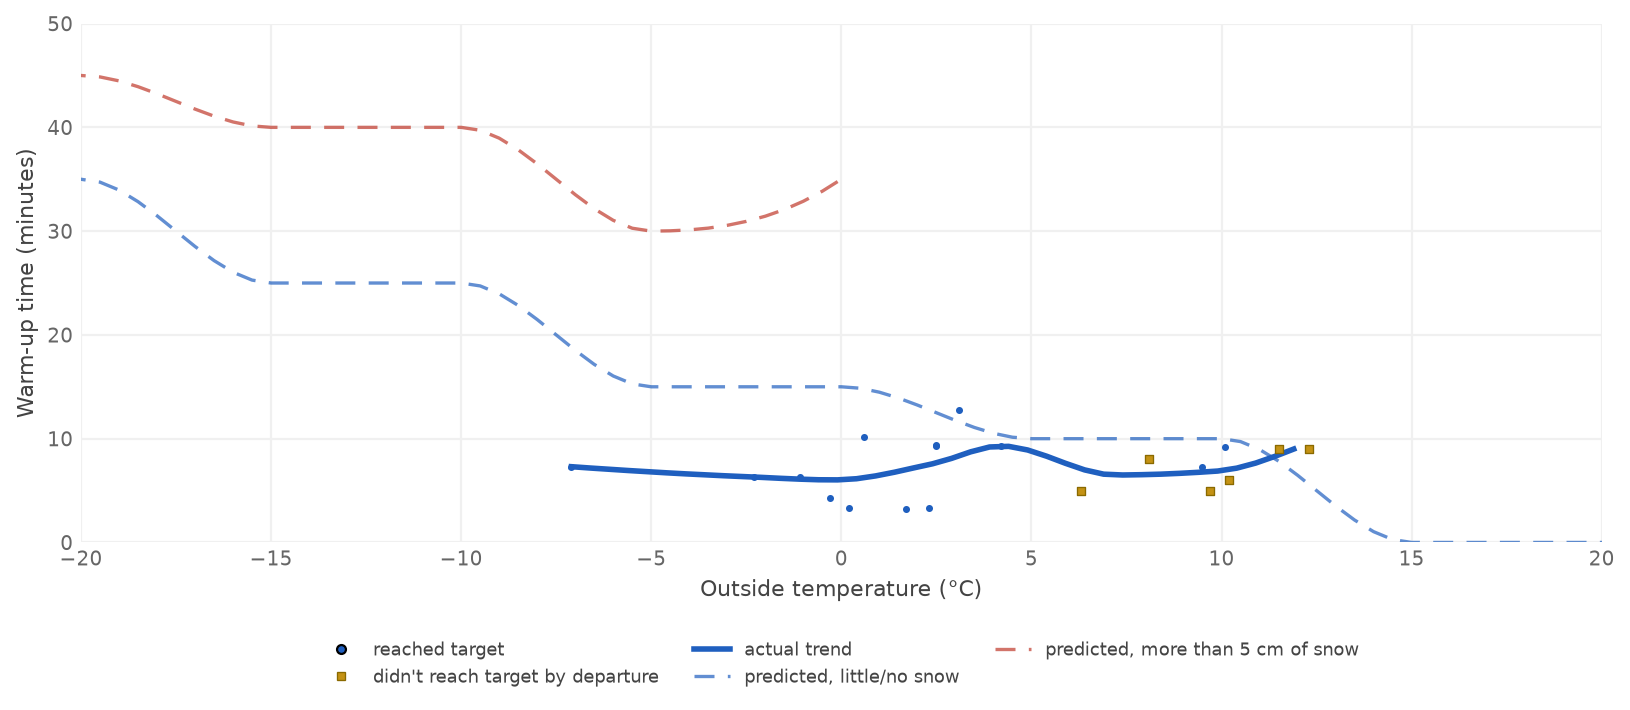
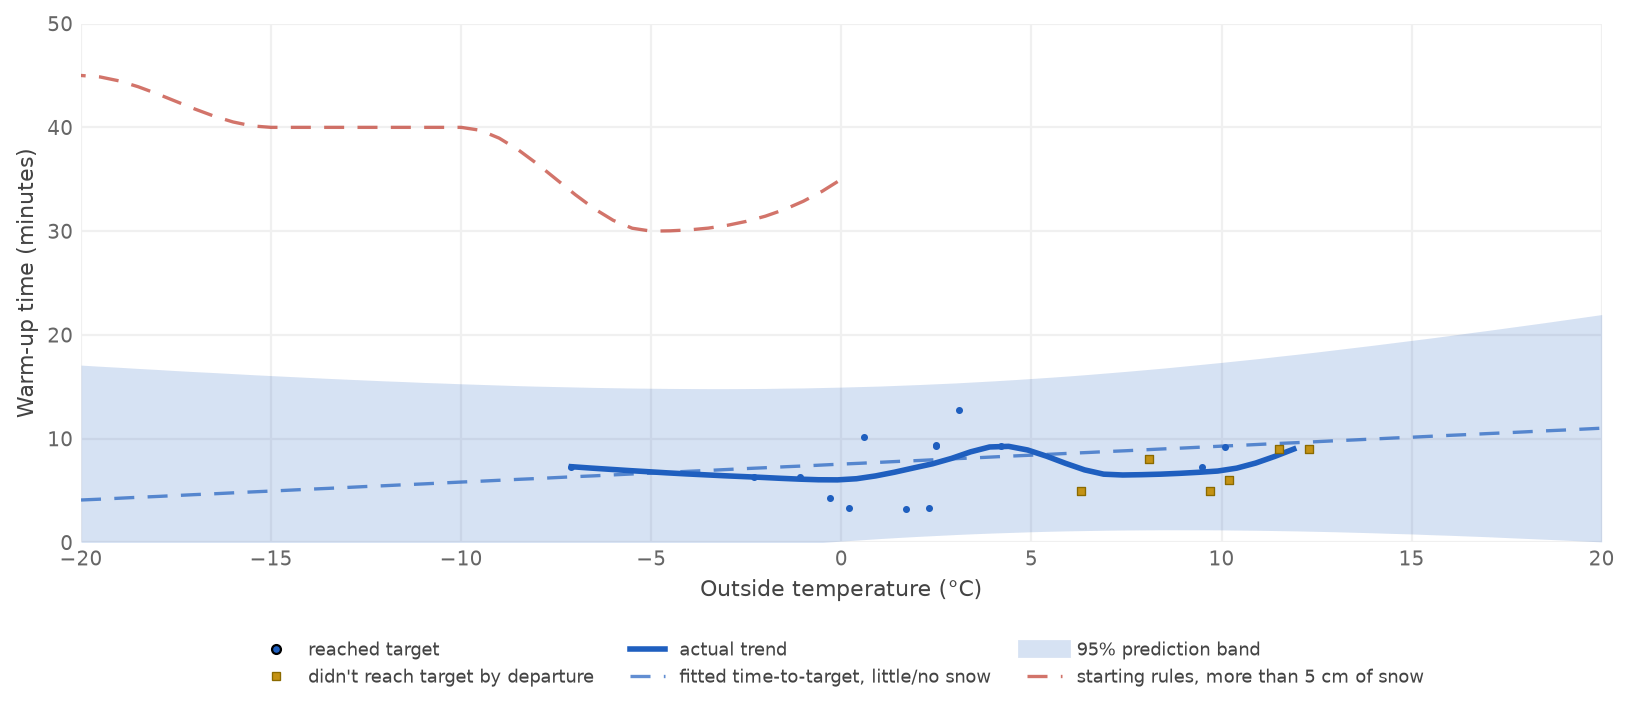
Update warm-up site 2026-11-25 11:43 EST

diff --git a/index.html b/index.html
@@ -5,18 +5,18 @@
 <meta http-equiv="Cache-Control" content="no-cache, no-store, must-revalidate">
 <meta http-equiv="Pragma" content="no-cache">
 <meta http-equiv="Expires" content="0">
-<meta name="evie-build" content="dc84d692acac">
+<meta name="evie-build" content="cb5a9c070e6d">
 <meta name="viewport" content="width=device-width, initial-scale=1, viewport-fit=cover">
 <title>Evie warm-up calibration</title>
 <meta name="description" content="How long Evie needs to warm up or cool down at each outside temperature, and how each trip calibrates it.">
 <meta name="robots" content="noindex">
 <meta name="theme-color" content="#0f1115">
 <meta property="og:title" content="Evie warm-up calibration">
-<meta property="og:image" content="assets/chart.png?v=dc84d692acac">
-<link rel="icon" href="assets/favicon.svg?v=dc84d692acac" type="image/svg+xml">
-<link rel="apple-touch-icon" href="assets/favicon.svg?v=dc84d692acac">
-<link rel="stylesheet" href="assets/style.css?v=dc84d692acac">
-<script src="assets/theme-boot.js?v=dc84d692acac"></script>
+<meta property="og:image" content="assets/chart.png?v=cb5a9c070e6d">
+<link rel="icon" href="assets/favicon.svg?v=cb5a9c070e6d" type="image/svg+xml">
+<link rel="apple-touch-icon" href="assets/favicon.svg?v=cb5a9c070e6d">
+<link rel="stylesheet" href="assets/style.css?v=cb5a9c070e6d">
+<script src="assets/theme-boot.js?v=cb5a9c070e6d"></script>
 </head>
 <body>
 <main>
@@ -41,7 +41,7 @@
   <div class="chart-wrap">
     <div class="chart-scroll" id="chart-scroll">
       <div id="chart" class="chart" role="img" aria-label="Chart of warm-up time in minutes against outside temperature from -20 to 20 °C. Scroll sideways for the full width. Tap a point for details.">
-        <noscript><img src="assets/chart.png?v=dc84d692acac" alt="Warm-up time vs outside temperature" width="2080" height="896"></noscript>
+        <noscript><img src="assets/chart.png?v=cb5a9c070e6d" alt="Warm-up time vs outside temperature" width="2080" height="896"></noscript>
       </div>
     </div>
   </div>
@@ -49,11 +49,12 @@
     <span><span class="d">●</span> reached target</span>
     <span><span class="m">■</span> didn't reach target by departure</span>
     <span class="d">— actual trend</span>
-    <span class="d">- - predicted, little/no snow</span>
-    <span class="s">- - predicted, more than 5 cm of snow (no trips yet)</span>
+    <span class="d">- - fitted time-to-target, little/no snow</span>
+    <span class="d">shaded 95% prediction band</span>
+    <span class="s">- - starting rules, more than 5 cm of snow (no trips yet)</span>
   </div>
-  <p class="note">20 completed warm-ups so far, all with 5 cm of snow or less.</p>
-  <p class="fine">Predicted curve: car parked outside at home, plugged in, no frost. Snow line assumes 10 cm of fresh snow (defrost added). Frosty mornings add about 10 minutes to the dry line. Chart shows −20 to +20 °C. The chart is 30% wider than the page and scrolls sideways. Tap a point or line for details.</p>
+  <p class="note">20 completed warm-ups so far, all with 5 cm of snow or less. The dashed blue line is a refit of cabin time-to-target vs outside temperature from 9 sessions with a trustworthy reached-target time (ordinary least squares, y = 7.5 + 0.17×T minutes, R² = 0.10, RMSE = 2.93 min, the slope is not statistically significant, p = 0.42). The shaded band is a 95% prediction interval. Sessions used for the fit span -7.1 to 10.1 °C; outside that range the line is an extrapolation. Defrost sessions with a cabin-sensor spike or a climate-off overshoot cut were left out of the fit (they still appear as points). This fitted line is for the chart only; the scheduler on the mini still uses its rule table, frost/snow adders, and its own learning. There are no completed sessions with more than 5 cm of snow, so that dashed red line is still the starting rule table (10 cm of fresh snow).</p>
+  <p class="fine">The dashed blue line is a linear fit of observed cabin time-to-target vs outside temperature (not the scheduler’s planned lead, which also adds frost/snow time). The shaded band is a 95% prediction interval. The dashed red snow line is still the starting rule table (10 cm of fresh snow) until a snowy session is recorded. Chart shows −20 to +20 °C. The chart is 30% wider than the page and scrolls sideways. Tap a point or line for details.</p>
 </section>
 
 <section class="card">
@@ -62,16 +63,16 @@
   <div class="tablewrap"><table class="sess"><thead><tr><th>Departure</th><th>Place</th><th>Outside</th><th>Snow</th><th>Mode</th><th>Lead time</th><th>Started</th><th>Time to target</th><th>Status</th><th>Feedback</th></tr></thead><tbody><tr class="next"><td data-l="Departure"><b>Wed Nov 25, 2026</b><span class="sub">4:10 p.m. ET</span></td><td data-l="Place">Work</td><td data-l="Outside">-0.3 °C<span class="sub">forecast, feels -4 °C</span></td><td data-l="Snow">–</td><td data-l="Mode">Heat (est.)<span class="sub">to 19.5 °C</span></td><td data-l="Lead time">~10 min (est.)</td><td data-l="Started">est. 4:00 p.m. ET</td><td data-l="Time to target">–</td><td data-l="Status"><span class="pill up">Next planned</span><span class="sub">Regular departure, set up at 3:05 PM if Evie&#x27;s at work</span><span class="sub">front seats level 1, wheel heat, no defrost (estimate)</span></td><td data-l="Feedback">–</td></tr><tr class="soon"><td data-l="Departure"><b>Thu Nov 26, 2026</b><span class="sub">8:15 a.m. ET</span></td><td data-l="Place">Home</td><td data-l="Outside">-5.6 °C<span class="sub">forecast, feels -10 °C</span></td><td data-l="Snow">–</td><td data-l="Mode">Heat (est.)<span class="sub">to 19.5 °C</span></td><td data-l="Lead time">~25 min (est.)</td><td data-l="Started">est. 7:50 a.m. ET</td><td data-l="Time to target">–</td><td data-l="Status"><span class="pill up">Coming up</span><span class="sub">Regular departure, set up at 7:15 AM if Evie&#x27;s home</span><span class="sub">front seats level 1, wheel heat, no defrost (estimate)</span></td><td data-l="Feedback">–</td></tr><tr class="soon"><td data-l="Departure"><b>Thu Nov 26, 2026</b><span class="sub">4:10 p.m. ET</span></td><td data-l="Place">Work</td><td data-l="Outside">0.7 °C<span class="sub">forecast, feels -4 °C</span></td><td data-l="Snow">–</td><td data-l="Mode">Heat (est.)<span class="sub">to 19.5 °C</span></td><td data-l="Lead time">~10 min (est.)</td><td data-l="Started">est. 4:00 p.m. ET</td><td data-l="Time to target">–</td><td data-l="Status"><span class="pill up">Coming up</span><span class="sub">Regular departure, set up at 3:05 PM if Evie&#x27;s at work</span><span class="sub">front seats level 1, wheel heat, no defrost (estimate)</span></td><td data-l="Feedback">–</td></tr><tr class="ok"><td data-l="Departure"><b>Wed Nov 25, 2026</b><span class="sub">8:15 a.m. ET</span></td><td data-l="Place">Home</td><td data-l="Outside">-7.1 °C</td><td data-l="Snow">0 cm</td><td data-l="Mode">Heat + defrost<span class="sub">to 19.5 °C</span></td><td data-l="Lead time">39 min</td><td data-l="Started">7:48 a.m.</td><td data-l="Time to target">7.3 min</td><td data-l="Status"><span class="pill ok">Done</span><span class="sub">Ready early (lead can shrink)</span></td><td data-l="Feedback">Clear</td></tr><tr class="ok"><td data-l="Departure"><b>Tue Nov 24, 2026</b><span class="sub">4:10 p.m. ET</span></td><td data-l="Place">Work</td><td data-l="Outside">-0.3 °C</td><td data-l="Snow">0 cm</td><td data-l="Mode">Heat + defrost<span class="sub">to 19.5 °C</span></td><td data-l="Lead time">15 min</td><td data-l="Started">3:55 p.m.</td><td data-l="Time to target">4.3 min</td><td data-l="Status"><span class="pill ok">Done</span><span class="sub">Ready early (lead can shrink)</span></td><td data-l="Feedback">Clear</td></tr><tr class="ok"><td data-l="Departure"><b>Tue Nov 24, 2026</b><span class="sub">8:15 a.m. ET</span></td><td data-l="Place">Home</td><td data-l="Outside">-2.3 °C</td><td data-l="Snow">0 cm</td><td data-l="Mode">Heat + defrost<span class="sub">to 19.5 °C</span></td><td data-l="Lead time">9 min</td><td data-l="Started">8:06 a.m.</td><td data-l="Time to target">6.3 min</td><td data-l="Status"><span class="pill ok">Done</span><span class="sub">Not at target by departure</span></td><td data-l="Feedback">Not quite</td></tr><tr class="muted"><td data-l="Departure"><b>Fri Nov 20, 2026</b><span class="sub">8:06 a.m. ET</span></td><td data-l="Place">Home</td><td data-l="Outside">5.3 °C</td><td data-l="Snow">0 cm</td><td data-l="Mode">Heat<span class="sub">to 19.5 °C</span></td><td data-l="Lead time">5 min</td><td data-l="Started">8:01 a.m.</td><td data-l="Time to target">–</td><td data-l="Status"><span class="pill muted">Skipped (climate already on)</span></td><td data-l="Feedback">–</td></tr><tr class="ok"><td data-l="Departure"><b>Thu Nov 19, 2026</b><span class="sub">4:10 p.m. ET</span></td><td data-l="Place">Work</td><td data-l="Outside">10.2 °C</td><td data-l="Snow">0 cm</td><td data-l="Mode">Heat<span class="sub">to 19.5 °C</span></td><td data-l="Lead time">6 min</td><td data-l="Started">4:03 p.m.</td><td data-l="Time to target">&gt; 6 min</td><td data-l="Status"><span class="pill ok">Done</span><span class="sub">Ready on time</span></td><td data-l="Feedback">–</td></tr><tr class="muted"><td data-l="Departure"><b>Thu Nov 19, 2026</b><span class="sub">8:15 a.m. ET</span></td><td data-l="Place">Home</td><td data-l="Outside">2.5 °C</td><td data-l="Snow">0 cm</td><td data-l="Mode">Heat<span class="sub">to 19.5 °C</span></td><td data-l="Lead time">10 min</td><td data-l="Started">–</td><td data-l="Time to target">–</td><td data-l="Status"><span class="pill muted">Cancelled</span></td><td data-l="Feedback">–</td></tr><tr class="ok"><td data-l="Departure"><b>Thu Nov 19, 2026</b><span class="sub">8:00 a.m. ET</span></td><td data-l="Place">Home</td><td data-l="Outside">2.5 °C</td><td data-l="Snow">0 cm</td><td data-l="Mode">Heat<span class="sub">to 19.5 °C</span></td><td data-l="Lead time">10 min</td><td data-l="Started">7:50 a.m.</td><td data-l="Time to target">9.4 min</td><td data-l="Status"><span class="pill ok">Done</span><span class="sub">Ready on time</span></td><td data-l="Feedback">–</td></tr><tr class="muted"><td data-l="Departure"><b>Wed Nov 18, 2026</b><span class="sub">4:10 p.m. ET</span></td><td data-l="Place">Work</td><td data-l="Outside">9.9 °C</td><td data-l="Snow">0 cm</td><td data-l="Mode">none<span class="sub">to 19.5 °C</span></td><td data-l="Lead time">0 min</td><td data-l="Started">–</td><td data-l="Time to target">–</td><td data-l="Status"><span class="pill muted">Skipped (not needed)</span></td><td data-l="Feedback">–</td></tr><tr class="muted"><td data-l="Departure"><b>Wed Nov 18, 2026</b><span class="sub">8:15 a.m. ET</span></td><td data-l="Place">Home</td><td data-l="Outside">2.8 °C</td><td data-l="Snow">0 cm</td><td data-l="Mode">Heat<span class="sub">to 19.5 °C</span></td><td data-l="Lead time">13 min</td><td data-l="Started">–</td><td data-l="Time to target">–</td><td data-l="Status"><span class="pill muted">Cancelled</span></td><td data-l="Feedback">–</td></tr><tr class="ok"><td data-l="Departure"><b>Wed Nov 18, 2026</b><span class="sub">8:00 a.m. ET</span></td><td data-l="Place">Home</td><td data-l="Outside">2.5 °C</td><td data-l="Snow">0 cm</td><td data-l="Mode">Heat<span class="sub">to 19.5 °C</span></td><td data-l="Lead time">13 min</td><td data-l="Started">7:47 a.m.</td><td data-l="Time to target">9.3 min</td><td data-l="Status"><span class="pill ok">Done</span><span class="sub">Ready on time</span></td><td data-l="Feedback">–</td></tr><tr class="ok"><td data-l="Departure"><b>Tue Nov 17, 2026</b><span class="sub">4:10 p.m. ET</span></td><td data-l="Place">Work</td><td data-l="Outside">9.5 °C</td><td data-l="Snow">0 cm</td><td data-l="Mode">Heat<span class="sub">to 19.5 °C</span></td><td data-l="Lead time">7 min</td><td data-l="Started">4:02 p.m.</td><td data-l="Time to target">7.3 min</td><td data-l="Status"><span class="pill ok">Done</span><span class="sub">Ready on time</span></td><td data-l="Feedback">–</td></tr><tr class="muted"><td data-l="Departure"><b>Tue Nov 17, 2026</b><span class="sub">8:15 a.m. ET</span></td><td data-l="Place">Home</td><td data-l="Outside">-2.4 °C</td><td data-l="Snow">0 cm</td><td data-l="Mode">Heat + defrost<span class="sub">to 19.5 °C</span></td><td data-l="Lead time">11 min</td><td data-l="Started">–</td><td data-l="Time to target">–</td><td data-l="Status"><span class="pill muted">Cancelled</span></td><td data-l="Feedback">–</td></tr><tr class="ok"><td data-l="Departure"><b>Tue Nov 17, 2026</b><span class="sub">8:07 a.m. ET</span></td><td data-l="Place">Home</td><td data-l="Outside">-1.1 °C</td><td data-l="Snow">0 cm</td><td data-l="Mode">Heat + defrost<span class="sub">to 19.5 °C</span></td><td data-l="Lead time">11 min</td><td data-l="Started">7:56 a.m.</td><td data-l="Time to target">6.3 min</td><td data-l="Status"><span class="pill ok">Done</span><span class="sub">Not at target by departure</span></td><td data-l="Feedback">Clear</td></tr><tr class="ok"><td data-l="Departure"><b>Sun Nov 15, 2026</b><span class="sub">9:45 a.m. ET</span></td><td data-l="Place">Home</td><td data-l="Outside">4.2 °C</td><td data-l="Snow">0 cm</td><td data-l="Mode">Heat<span class="sub">to 19.5 °C</span></td><td data-l="Lead time">14 min</td><td data-l="Started">9:31 a.m.</td><td data-l="Time to target">9.3 min</td><td data-l="Status"><span class="pill ok">Done</span><span class="sub">Ready on time</span></td><td data-l="Feedback">–</td></tr><tr class="ok"><td data-l="Departure"><b>Fri Nov 13, 2026</b><span class="sub">5:30 p.m. ET</span></td><td data-l="Place">Home</td><td data-l="Outside">2.3 °C</td><td data-l="Snow">0 cm</td><td data-l="Mode">Heat + defrost<span class="sub">to 19.5 °C</span></td><td data-l="Lead time">9 min</td><td data-l="Started">5:21 p.m.</td><td data-l="Time to target">3.3 min</td><td data-l="Status"><span class="pill ok">Done</span><span class="sub">Not at target by departure</span></td><td data-l="Feedback">Clear</td></tr><tr class="ok"><td data-l="Departure"><b>Wed Nov 11, 2026</b><span class="sub">6:00 p.m. ET</span></td><td data-l="Place">Home</td><td data-l="Outside">3.1 °C</td><td data-l="Snow">0 cm</td><td data-l="Mode">Heat<span class="sub">to 19.5 °C</span></td><td data-l="Lead time">15 min</td><td data-l="Started">5:51 p.m.</td><td data-l="Time to target">12.8 min</td><td data-l="Status"><span class="pill ok">Done</span><span class="sub">Ready on time</span></td><td data-l="Feedback">–</td></tr><tr class="ok"><td data-l="Departure"><b>Tue Nov 10, 2026</b><span class="sub">1:00 p.m. ET</span></td><td data-l="Place">Home</td><td data-l="Outside">9.7 °C</td><td data-l="Snow">0 cm</td><td data-l="Mode">Heat<span class="sub">to 19.5 °C</span></td><td data-l="Lead time">5 min</td><td data-l="Started">12:55 p.m.</td><td data-l="Time to target">&gt; 5 min</td><td data-l="Status"><span class="pill ok">Done</span><span class="sub">Not at target by departure</span></td><td data-l="Feedback">–</td></tr><tr class="muted"><td data-l="Departure"><b>Tue Nov 10, 2026</b><span class="sub">8:15 a.m. ET</span></td><td data-l="Place">Home</td><td data-l="Outside">5.4 °C</td><td data-l="Snow">0 cm</td><td data-l="Mode">Heat<span class="sub">to 19.5 °C</span></td><td data-l="Lead time">9 min</td><td data-l="Started">–</td><td data-l="Time to target">–</td><td data-l="Status"><span class="pill muted">Cancelled</span></td><td data-l="Feedback">–</td></tr><tr class="muted"><td data-l="Departure"><b>Thu Nov 5, 2026</b><span class="sub">8:15 a.m. ET</span></td><td data-l="Place">Home</td><td data-l="Outside">15.8 °C</td><td data-l="Snow">0 cm</td><td data-l="Mode">none<span class="sub">to 21 °C</span></td><td data-l="Lead time">0 min</td><td data-l="Started">–</td><td data-l="Time to target">–</td><td data-l="Status"><span class="pill muted">Cancelled</span></td><td data-l="Feedback">–</td></tr><tr class="ok"><td data-l="Departure"><b>Wed Nov 4, 2026</b><span class="sub">8:15 a.m. ET</span></td><td data-l="Place">Home</td><td data-l="Outside">12.3 °C</td><td data-l="Snow">0 cm</td><td data-l="Mode">Heat<span class="sub">to 19.5 °C</span></td><td data-l="Lead time">9 min</td><td data-l="Started">8:08 a.m.</td><td data-l="Time to target">&gt; 9 min</td><td data-l="Status"><span class="pill ok">Done</span><span class="sub">Ready on time</span></td><td data-l="Feedback">–</td></tr><tr class="ok"><td data-l="Departure"><b>Tue Nov 3, 2026</b><span class="sub">8:20 a.m. ET</span></td><td data-l="Place">Home</td><td data-l="Outside">11.5 °C</td><td data-l="Snow">0 cm</td><td data-l="Mode">Heat<span class="sub">to 19.5 °C</span></td><td data-l="Lead time">9 min</td><td data-l="Started">8:17 a.m.</td><td data-l="Time to target">&gt; 9 min</td><td data-l="Status"><span class="pill ok">Done</span><span class="sub">Ready on time</span></td><td data-l="Feedback">–</td></tr><tr class="muted"><td data-l="Departure"><b>Tue Nov 3, 2026</b><span class="sub">8:15 a.m. ET</span></td><td data-l="Place">Home</td><td data-l="Outside">11.6 °C</td><td data-l="Snow">0 cm</td><td data-l="Mode">Heat<span class="sub">to 19.5 °C</span></td><td data-l="Lead time">9 min</td><td data-l="Started">–</td><td data-l="Time to target">–</td><td data-l="Status"><span class="pill muted">Cancelled</span></td><td data-l="Feedback">–</td></tr><tr class="ok"><td data-l="Departure"><b>Thu Oct 29, 2026</b><span class="sub">8:45 a.m. ET</span></td><td data-l="Place">Home</td><td data-l="Outside">1.7 °C</td><td data-l="Snow">0 cm</td><td data-l="Mode">Heat + defrost<span class="sub">to 19.5 °C</span></td><td data-l="Lead time">12 min</td><td data-l="Started">8:34 a.m.</td><td data-l="Time to target">3.2 min</td><td data-l="Status"><span class="pill ok">Done</span><span class="sub">Ready early (lead can shrink)</span></td><td data-l="Feedback">Clear</td></tr><tr class="muted"><td data-l="Departure"><b>Wed Oct 28, 2026</b><span class="sub">4:10 p.m. ET</span></td><td data-l="Place">Work</td><td data-l="Outside">8.1 °C</td><td data-l="Snow">0 cm</td><td data-l="Mode">Heat<span class="sub">to 19.5 °C</span></td><td data-l="Lead time">8 min</td><td data-l="Started">–</td><td data-l="Time to target">–</td><td data-l="Status"><span class="pill muted">Cancelled</span></td><td data-l="Feedback">–</td></tr><tr class="ok"><td data-l="Departure"><b>Wed Oct 28, 2026</b><span class="sub">3:45 p.m. ET</span></td><td data-l="Place">Work</td><td data-l="Outside">8.1 °C</td><td data-l="Snow">0 cm</td><td data-l="Mode">Heat<span class="sub">to 19.5 °C</span></td><td data-l="Lead time">8 min</td><td data-l="Started">3:39 p.m.</td><td data-l="Time to target">&gt; 8 min</td><td data-l="Status"><span class="pill ok">Done</span><span class="sub">No cabin readings</span></td><td data-l="Feedback">–</td></tr><tr class="ok"><td data-l="Departure"><b>Wed Oct 28, 2026</b><span class="sub">8:30 a.m. ET</span></td><td data-l="Place">Home</td><td data-l="Outside">0.2 °C</td><td data-l="Snow">0 cm</td><td data-l="Mode">Heat + defrost<span class="sub">to 19.5 °C</span></td><td data-l="Lead time">12 min</td><td data-l="Started">8:21 a.m.</td><td data-l="Time to target">3.3 min</td><td data-l="Status"><span class="pill ok">Done</span><span class="sub">Ready early (lead can shrink)</span></td><td data-l="Feedback">Awaiting your answer</td></tr><tr class="muted"><td data-l="Departure"><b>Tue Oct 27, 2026</b><span class="sub">8:30 p.m. ET</span></td><td data-l="Place">Home</td><td data-l="Outside">1.2 °C</td><td data-l="Snow">0 cm</td><td data-l="Mode">Heat + defrost<span class="sub">to 19.5 °C</span></td><td data-l="Lead time">25 min</td><td data-l="Started">–</td><td data-l="Time to target">–</td><td data-l="Status"><span class="pill muted">Cancelled</span></td><td data-l="Feedback">–</td></tr><tr class="muted"><td data-l="Departure"><b>Tue Oct 27, 2026</b><span class="sub">4:10 p.m. ET</span></td><td data-l="Place">Work</td><td data-l="Outside">6.3 °C</td><td data-l="Snow">0 cm</td><td data-l="Mode">Heat + defrost<span class="sub">to 19.5 °C</span></td><td data-l="Lead time">5 min</td><td data-l="Started">–</td><td data-l="Time to target">–</td><td data-l="Status"><span class="pill muted">Cancelled</span></td><td data-l="Feedback">–</td></tr><tr class="muted"><td data-l="Departure"><b>Tue Oct 27, 2026</b><span class="sub">4:10 p.m. ET</span></td><td data-l="Place">Work</td><td data-l="Outside">6.3 °C</td><td data-l="Snow">0 cm</td><td data-l="Mode">Heat<span class="sub">to 19.5 °C</span></td><td data-l="Lead time">5 min</td><td data-l="Started">–</td><td data-l="Time to target">–</td><td data-l="Status"><span class="pill muted">Cancelled</span></td><td data-l="Feedback">–</td></tr><tr class="ok"><td data-l="Departure"><b>Tue Oct 27, 2026</b><span class="sub">4:07 p.m. ET</span></td><td data-l="Place">Work</td><td data-l="Outside">6.3 °C</td><td data-l="Snow">0 cm</td><td data-l="Mode">Heat<span class="sub">to 19.5 °C</span></td><td data-l="Lead time">5 min</td><td data-l="Started">4:02 p.m.</td><td data-l="Time to target">&gt; 5 min</td><td data-l="Status"><span class="pill ok">Done</span><span class="sub">No cabin readings</span></td><td data-l="Feedback">–</td></tr><tr class="ok"><td data-l="Departure"><b>Tue Oct 27, 2026</b><span class="sub">8:30 a.m. ET</span></td><td data-l="Place">Home</td><td data-l="Outside">0.6 °C</td><td data-l="Snow">0 cm</td><td data-l="Mode">Heat + defrost<span class="sub">to 19.5 °C</span></td><td data-l="Lead time">25 min</td><td data-l="Started">8:10 a.m.</td><td data-l="Time to target">10.2 min</td><td data-l="Status"><span class="pill ok">Done</span><span class="sub">Ready early (lead can shrink)</span></td><td data-l="Feedback">Way too early</td></tr><tr class="muted"><td data-l="Departure"><b>Tue Oct 27, 2026</b><span class="sub">8:15 a.m. ET</span></td><td data-l="Place">Home</td><td data-l="Outside">-0.5 °C</td><td data-l="Snow">0 cm</td><td data-l="Mode">Heat + defrost<span class="sub">to 19.5 °C</span></td><td data-l="Lead time">25 min</td><td data-l="Started">–</td><td data-l="Time to target">–</td><td data-l="Status"><span class="pill muted">Cancelled</span></td><td data-l="Feedback">–</td></tr><tr class="muted"><td data-l="Departure"><b>Mon Oct 26, 2026</b><span class="sub">8:50 p.m. ET</span></td><td data-l="Place">Home</td><td data-l="Outside">3.0 °C</td><td data-l="Snow">0 cm</td><td data-l="Mode">Heat<span class="sub">to 19.5 °C</span></td><td data-l="Lead time">15 min</td><td data-l="Started">–</td><td data-l="Time to target">–</td><td data-l="Status"><span class="pill muted">Cancelled</span></td><td data-l="Feedback">–</td></tr><tr class="muted"><td data-l="Departure"><b>Mon Oct 26, 2026</b><span class="sub">8:40 p.m. ET</span></td><td data-l="Place">Home</td><td data-l="Outside">4.6 °C</td><td data-l="Snow">0 cm</td><td data-l="Mode">Heat<span class="sub">to 19.5 °C</span></td><td data-l="Lead time">15 min</td><td data-l="Started">–</td><td data-l="Time to target">–</td><td data-l="Status"><span class="pill muted">Cancelled</span></td><td data-l="Feedback">–</td></tr><tr class="muted"><td data-l="Departure"><b>Mon Oct 26, 2026</b><span class="sub">8:32 p.m. ET</span></td><td data-l="Place">Home</td><td data-l="Outside">4.5 °C</td><td data-l="Snow">0 cm</td><td data-l="Mode">Heat<span class="sub">to 19.5 °C</span></td><td data-l="Lead time">6 min</td><td data-l="Started">8:26 p.m.</td><td data-l="Time to target">–</td><td data-l="Status"><span class="pill muted">Skipped (climate already on)</span></td><td data-l="Feedback">–</td></tr><tr class="muted"><td data-l="Departure"><b>Mon Oct 26, 2026</b><span class="sub">8:20 a.m. ET</span></td><td data-l="Place">Home</td><td data-l="Outside">8.2 °C</td><td data-l="Snow">0 cm</td><td data-l="Mode">Heat<span class="sub">to 19.5 °C</span></td><td data-l="Lead time">10 min</td><td data-l="Started">–</td><td data-l="Time to target">–</td><td data-l="Status"><span class="pill muted">Cancelled</span></td><td data-l="Feedback">–</td></tr><tr class="ok"><td data-l="Departure"><b>Mon Oct 26, 2026</b><span class="sub">8:15 a.m. ET</span></td><td data-l="Place">Home</td><td data-l="Outside">10.1 °C</td><td data-l="Snow">0 cm</td><td data-l="Mode">Heat<span class="sub">to 19.5 °C</span></td><td data-l="Lead time">10 min</td><td data-l="Started">8:05 a.m.</td><td data-l="Time to target">9.2 min</td><td data-l="Status"><span class="pill ok">Done</span><span class="sub">Ready on time</span></td><td data-l="Feedback">–</td></tr><tr class="muted"><td data-l="Departure"><b>Sun Oct 25, 2026</b><span class="sub">8:50 p.m. ET</span></td><td data-l="Place">Home</td><td data-l="Outside">10.5 °C</td><td data-l="Snow">0 cm</td><td data-l="Mode">Heat<span class="sub">to 19.5 °C</span></td><td data-l="Lead time">10 min</td><td data-l="Started">–</td><td data-l="Time to target">–</td><td data-l="Status"><span class="pill muted">Cancelled</span></td><td data-l="Feedback">–</td></tr></tbody></table></div>
 </section>
 
-<footer>Last updated Wed Nov 25, 2026 at 11:30 AM ET</footer>
+<footer>Last updated Wed Nov 25, 2026 at 11:43 AM ET</footer>
 </main>
-<script id="evie-data" type="application/json">{"pred":{"dry":[[-40,35,"heat"],[-35,35,"heat"],[-30,35,"heat"],[-25,35,"heat"],[-20,35,"heat"],[-15,25,"heat"],[-10,25,"heat"],[-5,15,"heat"],[0,15,"heat"],[5,10,"heat"],[10,10,"heat"],[15,0,"none"],[20,0,"none"],[25,0,"none"],[30,10,"cool"],[35,10,"cool"],[40,10,"cool"]],"snow":[[-40,45,"heat"],[-35,45,"heat"],[-30,45,"heat"],[-25,45,"heat"],[-20,45,"heat"],[-15,40,"heat"],[-10,40,"heat"],[-5,30,"heat"],[0,35,"heat"]]},"pred_smooth":{"dry":[[-40.0,35.0],[-39.5,35.0],[-39.0,35.0],[-38.5,35.0],[-38.0,35.0],[-37.5,35.0],[-37.0,35.0],[-36.5,35.0],[-36.0,35.0],[-35.5,35.0],[-35.0,35.0],[-34.5,35.0],[-34.0,35.0],[-33.5,35.0],[-33.0,35.0],[-32.5,35.0],[-32.0,35.0],[-31.5,35.0],[-31.0,35.0],[-30.5,35.0],[-30.0,35.0],[-29.5,35.0],[-29.0,35.0],[-28.5,35.0],[-28.0,35.0],[-27.5,35.0],[-27.0,35.0],[-26.5,35.0],[-26.0,35.0],[-25.5,35.0],[-25.0,35.0],[-24.5,35.0],[-24.0,35.0],[-23.5,35.0],[-23.0,35.0],[-22.5,35.0],[-22.0,35.0],[-21.5,35.0],[-21.0,35.0],[-20.5,35.0],[-20.0,35.0],[-19.5,34.72],[-19.0,33.96],[-18.5,32.84],[-18.0,31.48],[-17.5,30.0],[-17.0,28.52],[-16.5,27.16],[-16.0,26.04],[-15.5,25.28],[-15.0,25.0],[-14.5,25.0],[-14.0,25.0],[-13.5,25.0],[-13.0,25.0],[-12.5,25.0],[-12.0,25.0],[-11.5,25.0],[-11.0,25.0],[-10.5,25.0],[-10.0,25.0],[-9.5,24.72],[-9.0,23.96],[-8.5,22.84],[-8.0,21.48],[-7.5,20.0],[-7.0,18.52],[-6.5,17.16],[-6.0,16.04],[-5.5,15.28],[-5.0,15.0],[-4.5,15.0],[-4.0,15.0],[-3.5,15.0],[-3.0,15.0],[-2.5,15.0],[-2.0,15.0],[-1.5,15.0],[-1.0,15.0],[-0.5,15.0],[0.0,15.0],[0.5,14.86],[1.0,14.48],[1.5,13.92],[2.0,13.24],[2.5,12.5],[3.0,11.76],[3.5,11.08],[4.0,10.52],[4.5,10.14],[5.0,10.0],[5.5,10.0],[6.0,10.0],[6.5,10.0],[7.0,10.0],[7.5,10.0],[8.0,10.0],[8.5,10.0],[9.0,10.0],[9.5,10.0],[10.0,10.0],[10.5,9.72],[11.0,8.96],[11.5,7.84],[12.0,6.48],[12.5,5.0],[13.0,3.52],[13.5,2.16],[14.0,1.04],[14.5,0.28],[15.0,0.0],[15.5,0.0],[16.0,0.0],[16.5,0.0],[17.0,0.0],[17.5,0.0],[18.0,0.0],[18.5,0.0],[19.0,0.0],[19.5,0.0],[20.0,0.0],[20.5,0.0],[21.0,0.0],[21.5,0.0],[22.0,0.0],[22.5,0.0],[23.0,0.0],[23.5,0.0],[24.0,0.0],[24.5,0.0],[25.0,0.0],[25.5,0.28],[26.0,1.04],[26.5,2.16],[27.0,3.52],[27.5,5.0],[28.0,6.48],[28.5,7.84],[29.0,8.96],[29.5,9.72],[30.0,10.0],[30.5,10.0],[31.0,10.0],[31.5,10.0],[32.0,10.0],[32.5,10.0],[33.0,10.0],[33.5,10.0],[34.0,10.0],[34.5,10.0],[35.0,10.0],[35.5,10.0],[36.0,10.0],[36.5,10.0],[37.0,10.0],[37.5,10.0],[38.0,10.0],[38.5,10.0],[39.0,10.0],[39.5,10.0],[40.0,10.0]],"snow":[[-40.0,45.0],[-39.5,45.0],[-39.0,45.0],[-38.5,45.0],[-38.0,45.0],[-37.5,45.0],[-37.0,45.0],[-36.5,45.0],[-36.0,45.0],[-35.5,45.0],[-35.0,45.0],[-34.5,45.0],[-34.0,45.0],[-33.5,45.0],[-33.0,45.0],[-32.5,45.0],[-32.0,45.0],[-31.5,45.0],[-31.0,45.0],[-30.5,45.0],[-30.0,45.0],[-29.5,45.0],[-29.0,45.0],[-28.5,45.0],[-28.0,45.0],[-27.5,45.0],[-27.0,45.0],[-26.5,45.0],[-26.0,45.0],[-25.5,45.0],[-25.0,45.0],[-24.5,45.0],[-24.0,45.0],[-23.5,45.0],[-23.0,45.0],[-22.5,45.0],[-22.0,45.0],[-21.5,45.0],[-21.0,45.0],[-20.5,45.0],[-20.0,45.0],[-19.5,44.86],[-19.0,44.48],[-18.5,43.92],[-18.0,43.24],[-17.5,42.5],[-17.0,41.76],[-16.5,41.08],[-16.0,40.52],[-15.5,40.14],[-15.0,40.0],[-14.5,40.0],[-14.0,40.0],[-13.5,40.0],[-13.0,40.0],[-12.5,40.0],[-12.0,40.0],[-11.5,40.0],[-11.0,40.0],[-10.5,40.0],[-10.0,40.0],[-9.5,39.72],[-9.0,38.96],[-8.5,37.84],[-8.0,36.48],[-7.5,35.0],[-7.0,33.52],[-6.5,32.16],[-6.0,31.04],[-5.5,30.28],[-5.0,30.0],[-4.5,30.03],[-4.0,30.12],[-3.5,30.29],[-3.0,30.56],[-2.5,30.94],[-2.0,31.44],[-1.5,32.08],[-1.0,32.88],[-0.5,33.85],[0.0,35.0]]},"actual":{"dry":[{"x":-7.1,"y":7.3,"hit":true,"date":"Wed Nov 25, 2026","mode":"heat","target":19.5},{"x":-2.3,"y":6.3,"hit":true,"date":"Tue Nov 24, 2026","mode":"heat","target":19.5},{"x":-1.1,"y":6.3,"hit":true,"date":"Tue Nov 17, 2026","mode":"heat","target":19.5},{"x":-0.3,"y":4.3,"hit":true,"date":"Tue Nov 24, 2026","mode":"heat","target":19.5},{"x":0.2,"y":3.3,"hit":true,"date":"Wed Oct 28, 2026","mode":"heat","target":19.5},{"x":0.6,"y":10.2,"hit":true,"date":"Tue Oct 27, 2026","mode":"heat","target":19.5},{"x":1.7,"y":3.2,"hit":true,"date":"Thu Oct 29, 2026","mode":"heat","target":19.5},{"x":2.3,"y":3.3,"hit":true,"date":"Fri Nov 13, 2026","mode":"heat","target":19.5},{"x":2.5,"y":9.3,"hit":true,"date":"Wed Nov 18, 2026","mode":"heat","target":19.5},{"x":2.5,"y":9.4,"hit":true,"date":"Thu Nov 19, 2026","mode":"heat","target":19.5},{"x":3.1,"y":12.8,"hit":true,"date":"Wed Nov 11, 2026","mode":"heat","target":19.5},{"x":4.2,"y":9.3,"hit":true,"date":"Sun Nov 15, 2026","mode":"heat","target":19.5},{"x":6.3,"y":5.0,"hit":false,"date":"Tue Oct 27, 2026","mode":"heat","target":19.5},{"x":8.1,"y":8.0,"hit":false,"date":"Wed Oct 28, 2026","mode":"heat","target":19.5},{"x":9.5,"y":7.3,"hit":true,"date":"Tue Nov 17, 2026","mode":"heat","target":19.5},{"x":9.7,"y":5.0,"hit":false,"date":"Tue Nov 10, 2026","mode":"heat","target":19.5},{"x":10.1,"y":9.2,"hit":true,"date":"Mon Oct 26, 2026","mode":"heat","target":19.5},{"x":10.2,"y":6.0,"hit":false,"date":"Thu Nov 19, 2026","mode":"heat","target":19.5},{"x":11.5,"y":9.0,"hit":false,"date":"Tue Nov 3, 2026","mode":"heat","target":19.5},{"x":12.3,"y":9.0,"hit":false,"date":"Wed Nov 4, 2026","mode":"heat","target":19.5}],"snow":[]},"trend":{"dry":[[-7.1,7.3],[-6.6,7.17],[-6.1,7.05],[-5.6,6.93],[-5.1,6.82],[-4.6,6.71],[-4.1,6.61],[-3.6,6.52],[-3.1,6.43],[-2.6,6.35],[-2.1,6.27],[-1.6,6.18],[-1.1,6.1],[-0.6,6.04],[-0.1,6.03],[0.4,6.14],[0.9,6.41],[1.4,6.77],[1.9,7.18],[2.4,7.58],[2.9,8.1],[3.4,8.73],[3.9,9.2],[4.4,9.26],[4.9,8.91],[5.4,8.31],[5.9,7.62],[6.4,6.99],[6.9,6.58],[7.4,6.5],[7.9,6.53],[8.4,6.58],[8.9,6.66],[9.4,6.76],[9.9,6.88],[10.4,7.16],[10.9,7.65],[11.4,8.29],[11.9,9.0]],"snow":[]},"colors":{"dry":"#1f5fbf","snow":"#c0392b"}}</script>
-<script src="assets/chart.js?v=dc84d692acac"></script>
-<script src="assets/theme-ui.js?v=dc84d692acac"></script>
+<script id="evie-data" type="application/json">{"pred":{"dry":[[-20,4.1],[-15,5.0],[-10,5.8],[-5,6.7],[0,7.5],[5,8.4],[10,9.3],[15,10.1],[20,11.0]],"snow":[[-40,45,"heat"],[-35,45,"heat"],[-30,45,"heat"],[-25,45,"heat"],[-20,45,"heat"],[-15,40,"heat"],[-10,40,"heat"],[-5,30,"heat"],[0,35,"heat"]]},"pred_smooth":{"dry":[[-20.0,4.09],[-19.5,4.17],[-19.0,4.26],[-18.5,4.35],[-18.0,4.43],[-17.5,4.52],[-17.0,4.61],[-16.5,4.69],[-16.0,4.78],[-15.5,4.87],[-15.0,4.95],[-14.5,5.04],[-14.0,5.13],[-13.5,5.21],[-13.0,5.3],[-12.5,5.39],[-12.0,5.47],[-11.5,5.56],[-11.0,5.64],[-10.5,5.73],[-10.0,5.82],[-9.5,5.9],[-9.0,5.99],[-8.5,6.08],[-8.0,6.16],[-7.5,6.25],[-7.0,6.34],[-6.5,6.42],[-6.0,6.51],[-5.5,6.6],[-5.0,6.68],[-4.5,6.77],[-4.0,6.86],[-3.5,6.94],[-3.0,7.03],[-2.5,7.12],[-2.0,7.2],[-1.5,7.29],[-1.0,7.37],[-0.5,7.46],[0.0,7.55],[0.5,7.63],[1.0,7.72],[1.5,7.81],[2.0,7.89],[2.5,7.98],[3.0,8.07],[3.5,8.15],[4.0,8.24],[4.5,8.33],[5.0,8.41],[5.5,8.5],[6.0,8.59],[6.5,8.67],[7.0,8.76],[7.5,8.84],[8.0,8.93],[8.5,9.02],[9.0,9.1],[9.5,9.19],[10.0,9.28],[10.5,9.36],[11.0,9.45],[11.5,9.54],[12.0,9.62],[12.5,9.71],[13.0,9.8],[13.5,9.88],[14.0,9.97],[14.5,10.06],[15.0,10.14],[15.5,10.23],[16.0,10.32],[16.5,10.4],[17.0,10.49],[17.5,10.57],[18.0,10.66],[18.5,10.75],[19.0,10.83],[19.5,10.92],[20.0,11.01]],"snow":[[-40.0,45.0],[-39.5,45.0],[-39.0,45.0],[-38.5,45.0],[-38.0,45.0],[-37.5,45.0],[-37.0,45.0],[-36.5,45.0],[-36.0,45.0],[-35.5,45.0],[-35.0,45.0],[-34.5,45.0],[-34.0,45.0],[-33.5,45.0],[-33.0,45.0],[-32.5,45.0],[-32.0,45.0],[-31.5,45.0],[-31.0,45.0],[-30.5,45.0],[-30.0,45.0],[-29.5,45.0],[-29.0,45.0],[-28.5,45.0],[-28.0,45.0],[-27.5,45.0],[-27.0,45.0],[-26.5,45.0],[-26.0,45.0],[-25.5,45.0],[-25.0,45.0],[-24.5,45.0],[-24.0,45.0],[-23.5,45.0],[-23.0,45.0],[-22.5,45.0],[-22.0,45.0],[-21.5,45.0],[-21.0,45.0],[-20.5,45.0],[-20.0,45.0],[-19.5,44.86],[-19.0,44.48],[-18.5,43.92],[-18.0,43.24],[-17.5,42.5],[-17.0,41.76],[-16.5,41.08],[-16.0,40.52],[-15.5,40.14],[-15.0,40.0],[-14.5,40.0],[-14.0,40.0],[-13.5,40.0],[-13.0,40.0],[-12.5,40.0],[-12.0,40.0],[-11.5,40.0],[-11.0,40.0],[-10.5,40.0],[-10.0,40.0],[-9.5,39.72],[-9.0,38.96],[-8.5,37.84],[-8.0,36.48],[-7.5,35.0],[-7.0,33.52],[-6.5,32.16],[-6.0,31.04],[-5.5,30.28],[-5.0,30.0],[-4.5,30.03],[-4.0,30.12],[-3.5,30.29],[-3.0,30.56],[-2.5,30.94],[-2.0,31.44],[-1.5,32.08],[-1.0,32.88],[-0.5,33.85],[0.0,35.0]]},"pred_band":{"dry":[[-20.0,0.0,17.09],[-19.5,0.0,16.98],[-19.0,0.0,16.88],[-18.5,0.0,16.77],[-18.0,0.0,16.67],[-17.5,0.0,16.56],[-17.0,0.0,16.46],[-16.5,0.0,16.37],[-16.0,0.0,16.27],[-15.5,0.0,16.17],[-15.0,0.0,16.08],[-14.5,0.0,15.99],[-14.0,0.0,15.9],[-13.5,0.0,15.81],[-13.0,0.0,15.73],[-12.5,0.0,15.65],[-12.0,0.0,15.57],[-11.5,0.0,15.5],[-11.0,0.0,15.42],[-10.5,0.0,15.36],[-10.0,0.0,15.29],[-9.5,0.0,15.23],[-9.0,0.0,15.17],[-8.5,0.0,15.11],[-8.0,0.0,15.06],[-7.5,0.0,15.02],[-7.0,0.0,14.98],[-6.5,0.0,14.94],[-6.0,0.0,14.91],[-5.5,0.0,14.88],[-5.0,0.0,14.86],[-4.5,0.0,14.84],[-4.0,0.0,14.83],[-3.5,0.0,14.82],[-3.0,0.0,14.82],[-2.5,0.0,14.83],[-2.0,0.0,14.84],[-1.5,0.0,14.87],[-1.0,0.0,14.89],[-0.5,0.0,14.93],[0.0,0.13,14.97],[0.5,0.25,15.02],[1.0,0.37,15.07],[1.5,0.48,15.14],[2.0,0.58,15.21],[2.5,0.67,15.29],[3.0,0.76,15.37],[3.5,0.84,15.47],[4.0,0.91,15.57],[4.5,0.97,15.68],[5.0,1.03,15.8],[5.5,1.08,15.92],[6.0,1.12,16.05],[6.5,1.15,16.19],[7.0,1.18,16.34],[7.5,1.2,16.49],[8.0,1.21,16.65],[8.5,1.22,16.81],[9.0,1.22,16.99],[9.5,1.22,17.17],[10.0,1.21,17.35],[10.5,1.19,17.54],[11.0,1.17,17.73],[11.5,1.14,17.94],[12.0,1.11,18.14],[12.5,1.07,18.35],[13.0,1.03,18.57],[13.5,0.98,18.79],[14.0,0.93,19.01],[14.5,0.87,19.24],[15.0,0.82,19.47],[15.5,0.75,19.7],[16.0,0.69,19.94],[16.5,0.62,20.19],[17.0,0.55,20.43],[17.5,0.47,20.68],[18.0,0.39,20.93],[18.5,0.31,21.18],[19.0,0.23,21.44],[19.5,0.14,21.7],[20.0,0.05,21.96]],"snow":[]},"pred_kind":{"dry":"fit","snow":"rules"},"fit":{"dry":{"n":9,"method":"OLS linear","formula":"y = 7.5 + 0.17\u00d7T","intercept":7.547,"slope":0.173,"r2":0.097,"rmse":2.93,"slope_p":0.416,"slope_sig":false,"x_min":-7.1,"x_max":10.1,"alpha":0.95,"n_candidates":9},"snow":null},"actual":{"dry":[{"x":-7.1,"y":7.3,"hit":true,"date":"Wed Nov 25, 2026","mode":"heat","target":19.5},{"x":-2.3,"y":6.3,"hit":true,"date":"Tue Nov 24, 2026","mode":"heat","target":19.5},{"x":-1.1,"y":6.3,"hit":true,"date":"Tue Nov 17, 2026","mode":"heat","target":19.5},{"x":-0.3,"y":4.3,"hit":true,"date":"Tue Nov 24, 2026","mode":"heat","target":19.5},{"x":0.2,"y":3.3,"hit":true,"date":"Wed Oct 28, 2026","mode":"heat","target":19.5},{"x":0.6,"y":10.2,"hit":true,"date":"Tue Oct 27, 2026","mode":"heat","target":19.5},{"x":1.7,"y":3.2,"hit":true,"date":"Thu Oct 29, 2026","mode":"heat","target":19.5},{"x":2.3,"y":3.3,"hit":true,"date":"Fri Nov 13, 2026","mode":"heat","target":19.5},{"x":2.5,"y":9.3,"hit":true,"date":"Wed Nov 18, 2026","mode":"heat","target":19.5},{"x":2.5,"y":9.4,"hit":true,"date":"Thu Nov 19, 2026","mode":"heat","target":19.5},{"x":3.1,"y":12.8,"hit":true,"date":"Wed Nov 11, 2026","mode":"heat","target":19.5},{"x":4.2,"y":9.3,"hit":true,"date":"Sun Nov 15, 2026","mode":"heat","target":19.5},{"x":6.3,"y":5.0,"hit":false,"date":"Tue Oct 27, 2026","mode":"heat","target":19.5},{"x":8.1,"y":8.0,"hit":false,"date":"Wed Oct 28, 2026","mode":"heat","target":19.5},{"x":9.5,"y":7.3,"hit":true,"date":"Tue Nov 17, 2026","mode":"heat","target":19.5},{"x":9.7,"y":5.0,"hit":false,"date":"Tue Nov 10, 2026","mode":"heat","target":19.5},{"x":10.1,"y":9.2,"hit":true,"date":"Mon Oct 26, 2026","mode":"heat","target":19.5},{"x":10.2,"y":6.0,"hit":false,"date":"Thu Nov 19, 2026","mode":"heat","target":19.5},{"x":11.5,"y":9.0,"hit":false,"date":"Tue Nov 3, 2026","mode":"heat","target":19.5},{"x":12.3,"y":9.0,"hit":false,"date":"Wed Nov 4, 2026","mode":"heat","target":19.5}],"snow":[]},"trend":{"dry":[[-7.1,7.3],[-6.6,7.17],[-6.1,7.05],[-5.6,6.93],[-5.1,6.82],[-4.6,6.71],[-4.1,6.61],[-3.6,6.52],[-3.1,6.43],[-2.6,6.35],[-2.1,6.27],[-1.6,6.18],[-1.1,6.1],[-0.6,6.04],[-0.1,6.03],[0.4,6.14],[0.9,6.41],[1.4,6.77],[1.9,7.18],[2.4,7.58],[2.9,8.1],[3.4,8.73],[3.9,9.2],[4.4,9.26],[4.9,8.91],[5.4,8.31],[5.9,7.62],[6.4,6.99],[6.9,6.58],[7.4,6.5],[7.9,6.53],[8.4,6.58],[8.9,6.66],[9.4,6.76],[9.9,6.88],[10.4,7.16],[10.9,7.65],[11.4,8.29],[11.9,9.0]],"snow":[]},"colors":{"dry":"#1f5fbf","snow":"#c0392b"}}</script>
+<script src="assets/chart.js?v=cb5a9c070e6d"></script>
+<script src="assets/theme-ui.js?v=cb5a9c070e6d"></script>
 <script>
 /* Stale-copy guard: GitHub Pages caches for 10 min and Safari may restore old copies.
    If version.json names a newer build, reload once with ?v=<new build>. */
 (function () {
-  var BUILD = "dc84d692acac";
+  var BUILD = "cb5a9c070e6d";
   function check() {
     if (!window.fetch) return;
     fetch("version.json?t=" + Date.now(), { cache: "no-store" }).then(function (r) { return r.ok ? r.json() : null; })

diff --git a/assets/chart.js b/assets/chart.js
@@ -27,6 +27,13 @@
   function path(pts, X, Y) {
     return pts.map(function (p, i) { return (i ? "L" : "M") + X(p[0]).toFixed(1) + "," + Y(p[1]).toFixed(1); }).join(" ");
   }
+  function bandPath(band, X, Y) {
+    var pts = clip(band);
+    if (pts.length < 2) return "";
+    var lo = pts.map(function (p) { return [p[0], p[1]]; });
+    var hi = pts.map(function (p) { return [p[0], p[2]]; }).reverse();
+    return path(lo, X, Y) + " " + path(hi, X, Y).replace(/^M/, "L") + " Z";
+  }
   function axisY(svg, m, H, Y, fs, tick, axis, surface, narrow) {
     el("rect", { x: 0, y: 0, width: m.l, height: H, fill: surface }, svg);
     for (var y = Y0; y <= Y1; y += 10)
@@ -79,11 +86,20 @@
     var hits = [];
     ["dry", "snow"].forEach(function (s) {
       if (hidden[s]) return;
-      el("path", { d: path(clip(D.pred_smooth[s]), X, Y), fill: "none", stroke: col[s], "stroke-width": 1.5,
+      var band = ((D.pred_band || {})[s]) || [];
+      var bd = bandPath(band, X, Y);
+      if (bd) el("path", { d: bd, fill: col[s], "fill-opacity": "0.18", stroke: "none" }, svg);
+      el("path", { d: path(clip(D.pred_smooth[s] || []), X, Y), fill: "none", stroke: col[s], "stroke-width": 1.5,
         "stroke-dasharray": "6 4", opacity: 0.7 }, svg);
-      D.pred[s].forEach(function (p) {
+      var kind = ((D.pred_kind || {})[s]) || "rules";
+      var fit = (D.fit || {})[s] || {};
+      var label = kind === "fit" ? "Fitted time-to-target" : "Starting rules";
+      (D.pred[s] || []).forEach(function (p) {
         if (p[0] < X0 || p[0] > X1) return;
-        hits.push({ x: X(p[0]), y: Y(p[1]), html: "<b>Predicted</b> · " + NAMES[s] + "<br>" + p[0] + " °C → " + p[1] + " min" + (p[2] === "cool" ? " (cool-down)" : "") });
+        var extra = "";
+        if (kind === "fit" && fit.formula) extra = "<br>" + fit.formula + " min, n=" + fit.n + ", R²=" + fit.r2;
+        if (p[2] === "cool") extra += " (cool-down)";
+        hits.push({ x: X(p[0]), y: Y(p[1]), html: "<b>" + label + "</b> · " + NAMES[s] + "<br>" + p[0] + " °C → " + p[1] + " min" + extra });
       });
     });
     ["dry", "snow"].forEach(function (s) {
